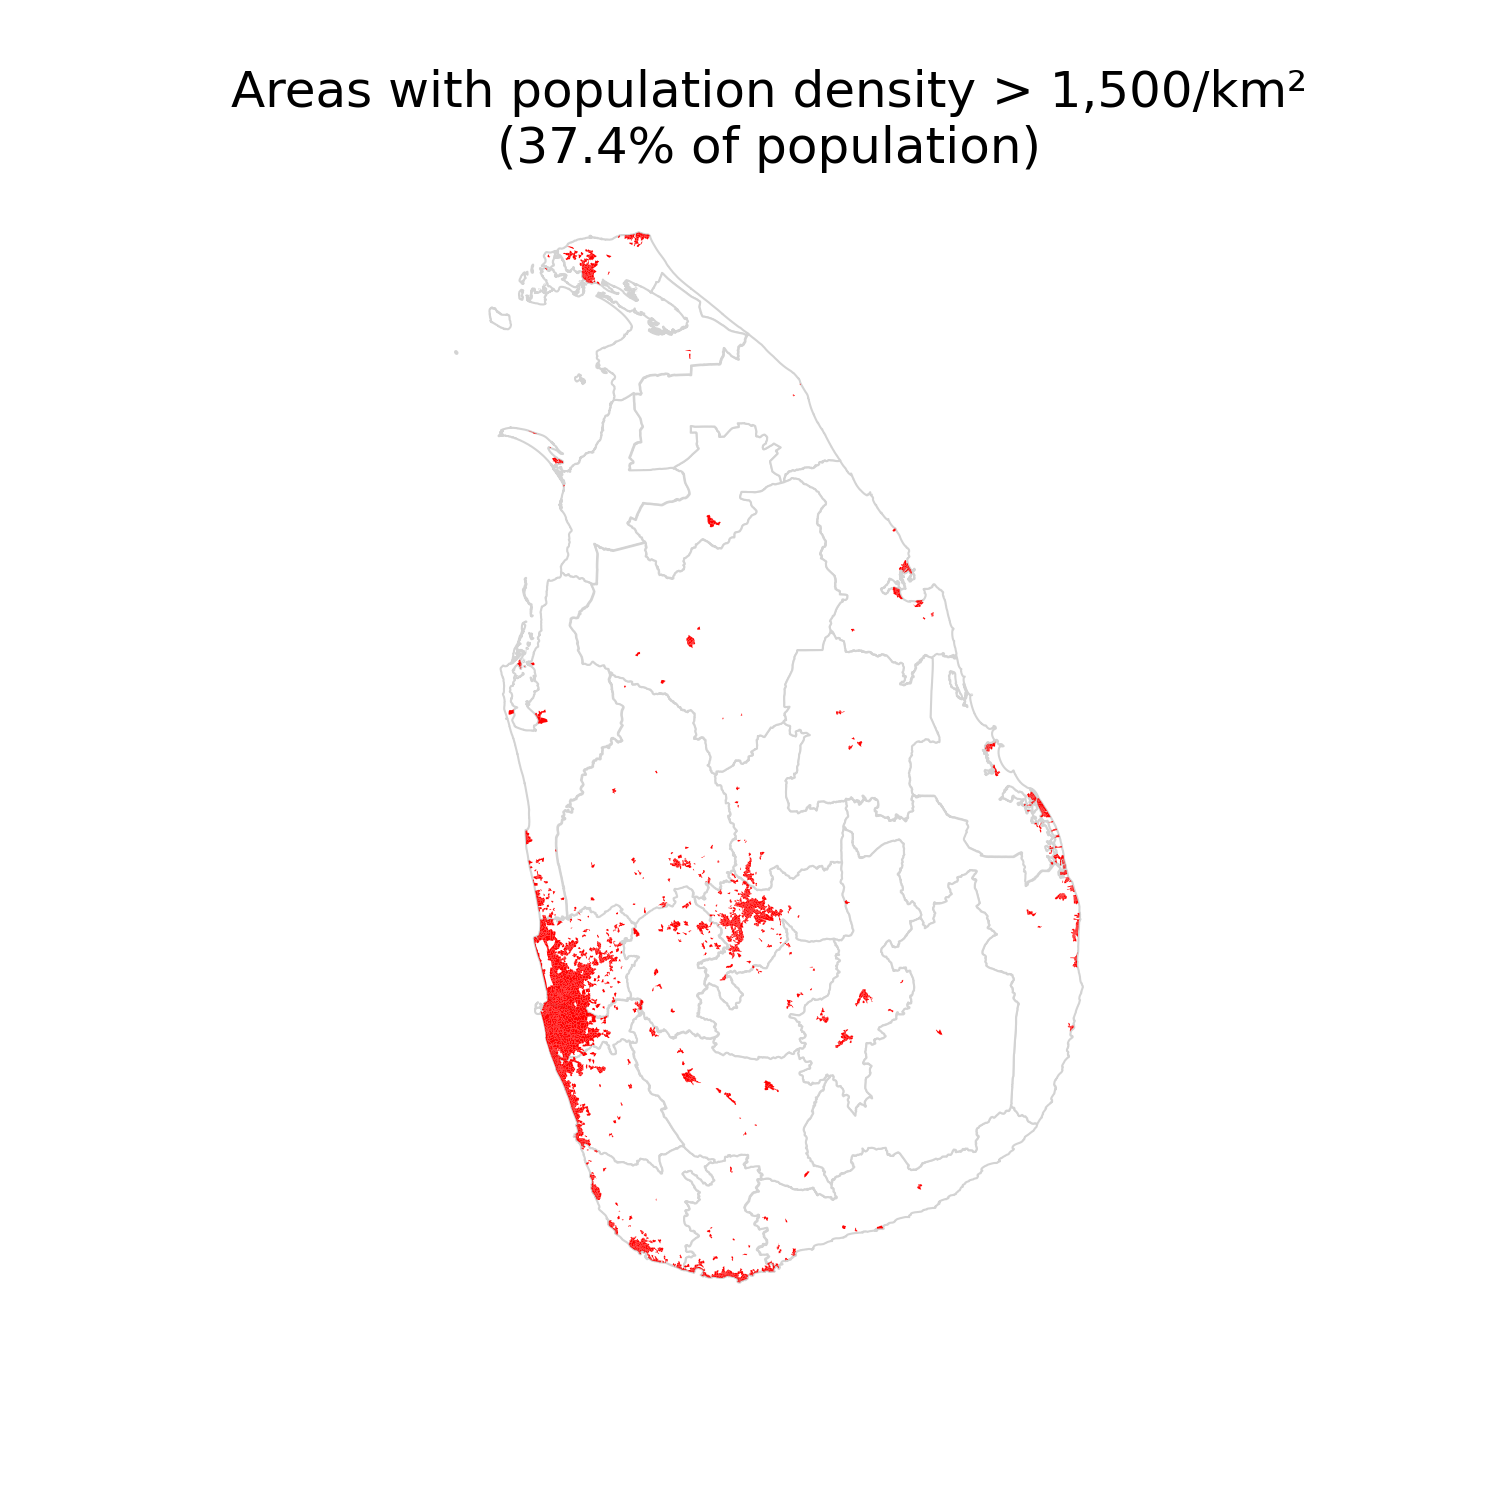
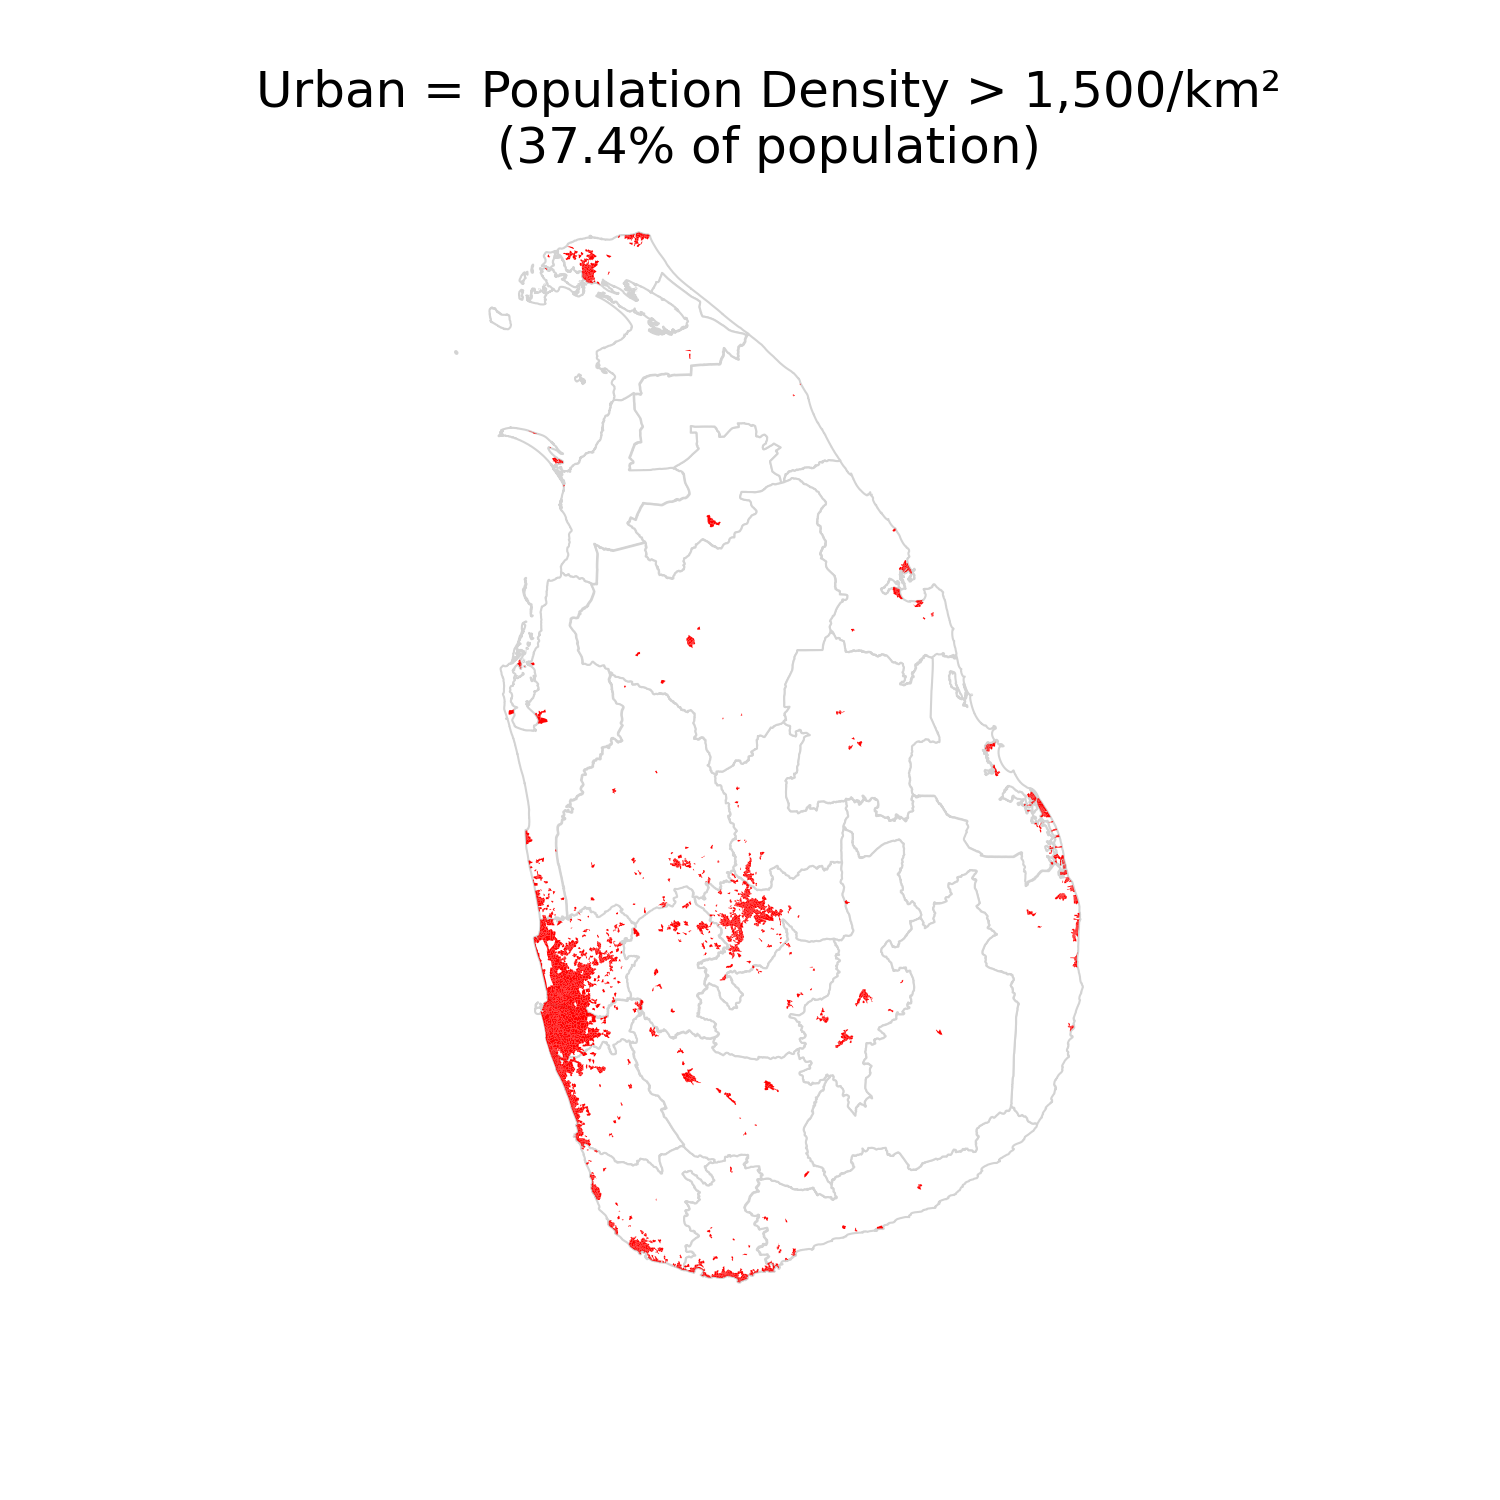
Refactor code structure for improved readability and maintainability

Changed region(s): [[0.1533, 0.0307, 0.8587, 0.092]]

diff --git a/src/lk_urban/AbstractUrbanMap.py b/src/lk_urban/AbstractUrbanMap.py
@@ -2,6 +2,8 @@ import os
 import re
 from abc import ABC, abstractmethod
 
+import matplotlib.cm as cm
+import matplotlib.colors as mcolors
 import matplotlib.pyplot as plt
 from gig import Ent, EntType, GIGTable
 from utils import Log
@@ -48,6 +50,9 @@ class AbstractUrbanMap(ABC):
     def get_legend_title(self) -> str | None:
         return None
 
+    def get_district_id(self, ent: Ent) -> str:
+        return ent.id[:5]
+
     def _draw_districts(self, ax):
         districts = Ent.list_from_type(EntType.DISTRICT)
         for district in districts:
@@ -81,14 +86,64 @@ class AbstractUrbanMap(ABC):
         if legend_handles:
             ax.legend(handles=legend_handles, title=self.get_legend_title())
 
-    def _save_figure(self):
-        image_path = self.get_image_path()
+    def _save_figure(self, image_path: str | None = None):
+        if image_path is None:
+            image_path = self.get_image_path()
         os.makedirs(os.path.dirname(image_path) or ".", exist_ok=True)
         plt.savefig(image_path, dpi=300)
         log.info(f'Wrote "{image_path}"')
         plt.close()
 
-    def render(self):
+    def _get_district_image_path(self) -> str:
+        return self.get_image_path().replace(".png", "_by_district.png")
+
+    def _compute_district_urban_ratios(
+        self, districts: list[Ent]
+    ) -> dict[str, float]:
+        district_ids = {d.id for d in districts}
+        pop_total = {did: 0 for did in district_ids}
+        pop_urban = {did: 0 for did in district_ids}
+        for ent in Ent.list_from_type(self.get_ent_type()):
+            try:
+                district_id = self.get_district_id(ent)
+                population = self.get_population(ent)
+                pop_total[district_id] += population
+                if self.is_urban(ent):
+                    pop_urban[district_id] += population
+            except Exception as e:
+                log.error(f"Error processing {ent.name}: {e}")
+        return {
+            did: pop_urban[did] / pop_total[did]
+            for did in district_ids
+            if pop_total[did] > 0
+        }
+
+    def _draw_district_choropleth(
+        self, ax, districts: list[Ent], ratios: dict[str, float]
+    ):
+        cmap = cm.Reds
+        norm = mcolors.Normalize(
+            vmin=0, vmax=max(ratios.values()) if ratios else 1
+        )
+        for district in districts:
+            p = ratios.get(district.id, 0)
+            district.geo().plot(
+                ax=ax,
+                color=cmap(norm(p)),
+                edgecolor="lightgray",
+                linewidth=0.5,
+            )
+        sm = cm.ScalarMappable(cmap=cmap, norm=norm)
+        sm.set_array([])
+        plt.colorbar(
+            sm,
+            ax=ax,
+            fraction=0.03,
+            pad=0.04,
+            format=lambda x, _: f"{x:.0%}",
+        )
+
+    def render_map(self):
         _fig, ax = plt.subplots(figsize=(5, 5))
         self._draw_districts(ax)
         pop_total, pop_urban = self._draw_ents(ax)
@@ -98,3 +153,22 @@ class AbstractUrbanMap(ABC):
         log.info(f"Proportion of urban population: {p_urban:.1%}")
         self._configure_axes(ax, p_urban)
         self._save_figure()
+
+    def render_district_map(self):
+        districts = Ent.list_from_type(EntType.DISTRICT)
+        ratios = self._compute_district_urban_ratios(districts)
+        _fig, ax = plt.subplots(figsize=(5, 5))
+        self._draw_district_choropleth(ax, districts, ratios)
+        ax.set_xticks([])
+        ax.set_yticks([])
+        ax.grid(False)
+        ax.set_frame_on(False)
+        plt.title(
+            f"{self.get_title_label()}\n(% Urban Population by District)",
+            wrap=True,
+        )
+        self._save_figure(self._get_district_image_path())
+
+    def render(self):
+        self.render_map()
+        self.render_district_map()

diff --git a/src/lk_urban/LocalAuthorityUrbanMap.py b/src/lk_urban/LocalAuthorityUrbanMap.py
@@ -19,7 +19,10 @@ class LocalAuthorityUrbanMap(AbstractUrbanMap):
         return "red" if self._lg_type(ent) == "MC" else "orange"
 
     def get_title_label(self) -> str:
-        return "Municipal Councils and Urban Councils"
+        return "Urban = Municipal Councils or Urban Councils"
+
+    def get_district_id(self, ent: Ent) -> str:
+        return ent.district_id
 
     def get_image_path(self) -> str:
         return os.path.join("images", f"{self._class_label()}.png")

diff --git a/src/lk_urban/DensityUrbanMap.py b/src/lk_urban/DensityUrbanMap.py
@@ -26,8 +26,7 @@ class DensityUrbanMap(AbstractUrbanMap):
 
     def get_title_label(self) -> str:
         return (
-            f"Areas with population density"
-            f" > {self.density_threshold:,}/km²"
+            f"Urban = Population Density" f" > {self.density_threshold:,}/km²"
         )
 
     def get_image_path(self) -> str:
